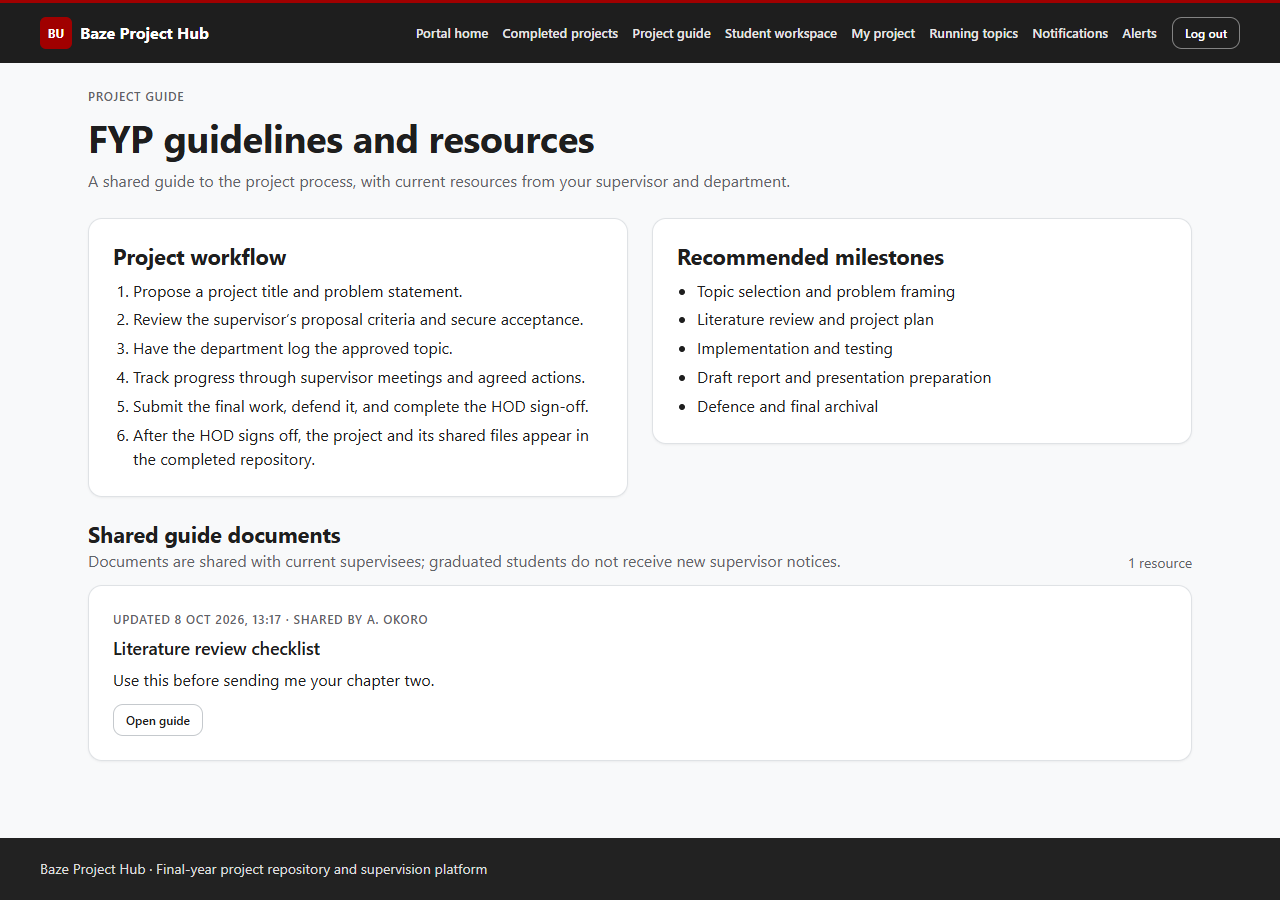
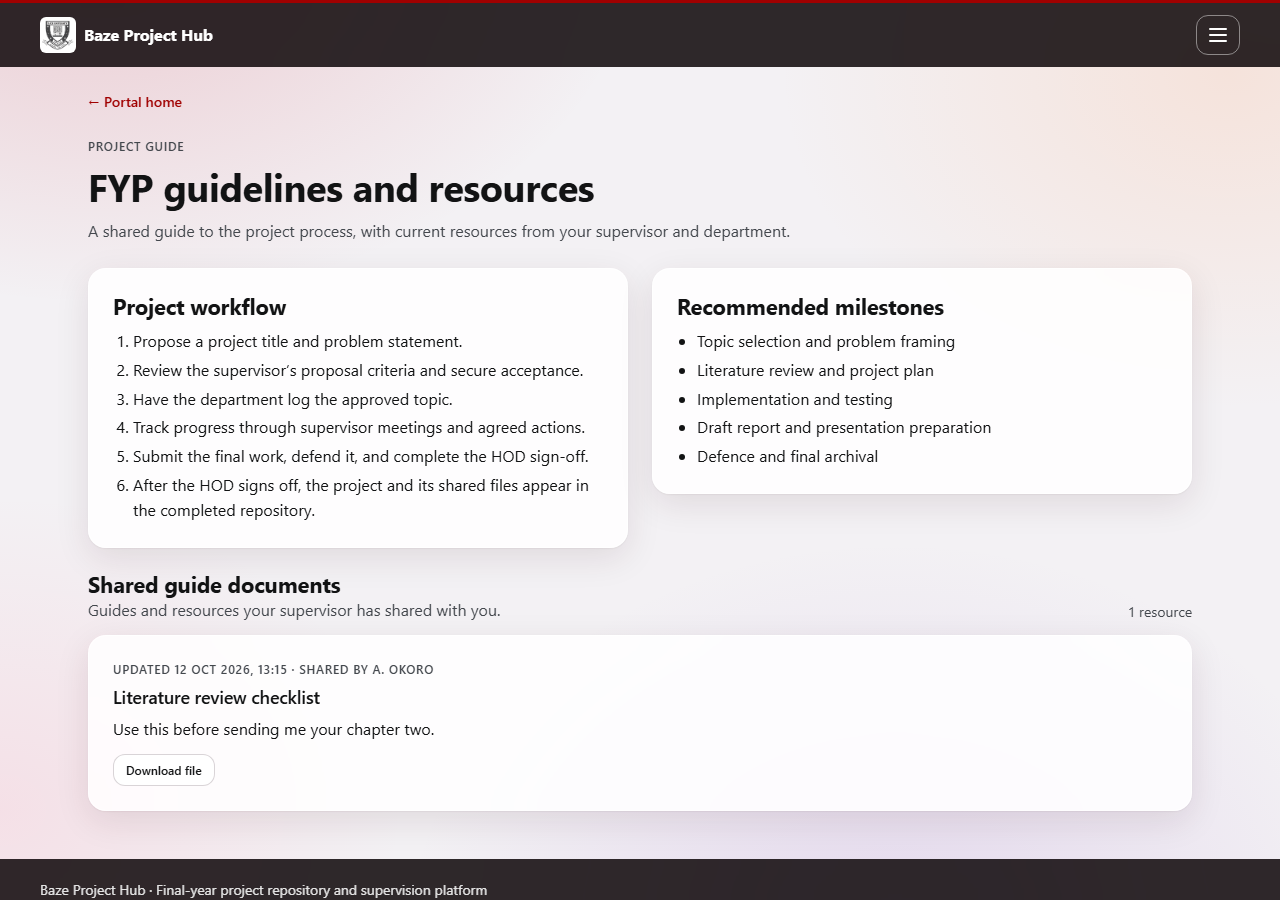
Docs: today's features and decisions (D-37 to D-40), code map, demo, Q&A, fresh screenshots
- decisions.md: D-37 coordinator upload and the staff file list, D-38 semesters entered by
  hand, D-39 public welcome page and "Log in" wording, D-40 a verified graduation needs a year.
- PROGRESS.md: welcome page, crest and login look, year grid and semester filter, missing
  file page, uploader on archived files, staff file list, semesters; 350 tests; limits.
- known_limits.md: 350 tests; semester limits; picture sources still to confirm.
- code_map.md: a "Welcome page, files and semesters" section (14 rows, all checked by
  tests_docs).
- demo_script.md: start at the welcome page; untimed extras for the coordinator upload,
  semesters and the year grid. defence-qa.md: Q33 to Q35.
- docs/screenshots: the four pages re-captured at 1280 and 360 px in the current look.
- static/img/README.txt: what each picture is for, and a note to confirm their sources.

diff --git a/projecthub_slice1/PROGRESS.md b/projecthub_slice1/PROGRESS.md
@@ -1,6 +1,6 @@
 # Progress
 
-**Last updated:** 2026-10-10 · **Core workflows implemented; open questions and known limits remain**
+**Last updated:** 2026-10-13 · **Core workflows implemented; open questions and known limits remain**
 
 ## Implemented
 
@@ -18,6 +18,8 @@
 - **My details** (`/account/contact/`) for every account: personal email and phone, each with its own visibility (only me, staff only, all signed-in users); shown on project pages for the student and the supervisor; current students without a personal email are reminded to add one
 - The HOD appoints the FYP coordinator and the staff allowed to assign supervisors (D-19)
 - Login and logout (logout is POST only), role-based dashboard
+- Logged-out welcome page (`/`): live totals (archived and running projects, academic staff, faculties; real rows only, sample rows only on a demo-only database), how a project moves through the hub, and a tile per faculty; visitors' header shows Home, How it works, Faculties, Past research and one highlighted **Log in**; signing out lands on the welcome page (D-39)
+- The Baze University crest is the header brand on every page (`static/img/baze-logo.png`, "BU" if the file is missing); the login form sits on the left over a background picture
 - Glass look by default (`UI_THEME=glass`), with the classic look one setting away (D-35)
 - Separate portals and role-aware navigation for current students, alumni, supervisors, coordinators, HODs and system administrators
 - `role_required` permission helper (deny by default)
@@ -28,14 +30,19 @@
 - Permission-checked project downloads with per-file Baze-user/staff visibility and extension/size validation
 - Admin-only CSV import of historic project summaries, all or nothing: every bad row is listed with its line number and nothing is saved until every row is valid; supervisors and previous supervisors must be academic staff of the project's department. Demo sample: `docs/sample_import.csv`
 - Similar-topic checker: archived projects whose topics score above `SIMILARITY_THRESHOLD` are listed (`docs/explain/similarity.md`)
+- Search filters: the Year filter opens a calendar-style year grid (years with projects clickable); a Semester filter beside it (D-38)
+- Archived files show who uploaded them; earlier supervisors are listed once each and never repeat the final supervisor
+- A file missing from disk shows a plain "not available" page (404) instead of a server error, and is logged
 
 ### Project workflow and supervision
 - The proposal shows only the fields the supervisor's method needs, can be saved as a draft, opens with what was saved, and stays editable until the supervisor decides (D-36)
 - Student project creation and a role-checked proposal-to-HOD-archive workflow, with per-supervisor approval criteria, decision snapshots and status history
 - Students upload proposal and final report files; the project cannot be submitted until a final report is present
 - The department's coordinator can also upload the final document for a project in their department (in progress, submitted or defended), from "Upload final report" on the workflow page. The file is recorded under the coordinator and audited; the HOD's sign-off still archives the project and moves its files
+- Staff who may open a running project's files see them listed on its workflow page, newest first, with type, uploader and date
 - Screenshots (up to 6) and demo videos (up to 2, upload or YouTube/Drive/Vimeo link) on running and archived projects, content-checked and permission-served; they move to the archive at sign-off (D-30)
-- HOD sign-off, archive and convocation list (printable and CSV)
+- HOD sign-off, archive and convocation list (printable and CSV); ticking "Graduation verified" needs the graduation year (D-40)
+- Semesters entered by hand (26A, 26B, 26C): the coordinator (or an admin) creates them on **Semesters**, with optional dates as notes, and picks each project's semester at allocation or on its workflow page; faculty deadlines can be tied to a semester; the archive keeps the semester; convocation list and CSVs show it; older records stay "Not set" until someone fills them in (D-38)
 - Project list CSV for coordinators (faculty), HODs (department) and administrators (all), audited (D-34)
 - Student allocation lists students who have no supervisor yet (a coordinator sees and allocates across their whole faculty, D-29); allocating creates their project record ("Topic to be agreed"). Supervisors are offered least busy first with their load; a change of supervisor needs a reason (D-27)
 - Department-scoped supervisor assignment and reassignment for individually authorised staff, with a history recording who changed it, when, and why; supervisor workload counts in the assignment workspace
@@ -62,7 +69,7 @@
 - Live counters and the lists beside them follow the viewer: a demo account counts demo and real rows, a real account real rows only
 
 ## Verification status
-- `manage.py test apps`: **335 tests pass on SQLite (`DB_ENGINE=sqlite`) and on MySQL 8.4** (2026-10-13).
+- `manage.py test apps`: **350 tests pass on SQLite (`DB_ENGINE=sqlite`) and on MySQL 8.4** (2026-10-13).
 - `apps/accounts/tests_docs.py` checks that every row of `docs/code_map.md` names a real file and name.
 - Runtime in use: Python 3.14.0, Django 5.2.18, MySQL 8.4.
 
@@ -95,6 +102,7 @@ For the demo, run `.\run_demo.ps1` from the repository root instead. It uses its
 
 ### Known limits (from `docs/known_limits.md`)
 - Multiple supervisors per project (co-supervision) is planned, not built: each project has one current supervisor, and earlier supervisors are kept in its history.
+- Semesters are not deleted in the app, and `seed_demo` assigns none: in the demo, add 26A on **Semesters** first.
 - No "corrections required" loop after a defence; stages only move forward (R-11).
 - No email verification at registration; an administrator approves each registration by hand.
 - Running project files are listed for staff on the workflow page only (with type, uploader and date); the project summary page does not list them.

diff --git a/docs/defence/defence-qa.md b/docs/defence/defence-qa.md
@@ -298,3 +298,21 @@ Guards: `apps/audit/models.py`, `apps/projects/models/project.py`, `apps/project
 **Say:** "Each student sees only what their own supervisor asks for: everyone gives a title, problem, objectives and methodology; a literature review and research gap appear only for supervisors who require them, and demonstration evidence only for supervisors who want a working project. They can save a draft as often as they like, where the supervisor can't see it, and submit when ready, which alerts the supervisor. The form always reopens with what they saved, and they can keep editing until the supervisor decides. Once it's accepted it's locked, because the accepted topic is the official record."
 
 **How it works:** `ProjectProposalForm` (`apps/projects/forms.py`) drops fields the supervisor's method doesn't need; `save_proposal_draft` and `submit_proposal` in `apps/projects/services/approval.py`; a proposal without a student date is a draft, and `record_supervisor_decision` refuses to decide on it. Tests: `apps/projects/tests_proposal.py`. Decision D-36.
+
+### 33. Can someone other than the student upload the final report?
+
+**Say:** "Yes, the department's coordinator, once the project is in progress, submitted or defended. Students sometimes bring the final copy to the office, so the coordinator can put it on the system for them. The file is recorded under the coordinator's name and the upload is in the audit log. Nothing else changes: the HOD still signs off, and that moves every file into the archive. Staff who may open the files see them listed on the workflow page, with who uploaded each one."
+
+**How it works:** `upload_project_document` and `_coordinator_can_upload` in `apps/projects/views.py`; the file list reuses `_can_open_current_project_files`, so nobody gains access. Tests: `apps/projects/tests_coordinator_upload.py`. Decision D-37.
+
+### 34. A year has three semesters with different timing. How does the system cope?
+
+**Say:** "Semesters are entered by hand, because the timing changes and some have no fixed dates. The coordinator creates 26A, 26B or 26C when needed, can note the dates, and picks each project's semester. Defence dates were already recorded per student, so a 26A defence in early January or in the semester's last month both work. Deadlines can be tied to a semester, so 26A's Chapter 3 date never lands on a 26B student. When a 26C project is signed off in January, the archive still says 26C, and searches and the convocation list can use the semester or the year."
+
+**How it works:** `Semester` in `apps/academics/models.py`; `deadlines_for` and `set_project_semester` in `apps/projects/services/semesters.py`; the Semesters page `semesters` in `apps/academics/views.py`. Tests: `apps/projects/tests_semesters.py`. Decision D-38.
+
+### 35. What can someone see without logging in?
+
+**Say:** "Only the welcome page: what the hub is, how a project moves through it, totals such as the number of archived projects, and the faculties. Those are counts; no name, title or file. Every project page, the repository and every download still need a Baze login."
+
+**How it works:** `home` and `_welcome_figures` in `apps/accounts/views.py`; real rows only, unless the database holds only sample data. Tests: `HomePageTests` in `apps/accounts/tests.py`. Decision D-39.

diff --git a/docs/decisions.md b/docs/decisions.md
@@ -45,6 +45,10 @@ Update this file whenever a decision is made or an open question is answered. Ne
 | D-34 | **Project list export (CSV)** for the coordinator (their faculty), the HOD (their department) and the administrator (all): running projects with student, ID, programme, department, supervisor, stage, milestone progress and, where the viewer may see it, the health band. Formula-safe cells; audited | User decided 2026-10-12 |
 | D-35 | **Glass look (glassmorphism)** as the default theme: frosted, semi-transparent cards and dark-glass header, heroes and footer over a soft Baze-crimson background. Chosen over neumorphism (weak contrast), cyberpunk and neo-brutalism (not suited to an academic tool). Text stays dark on light glass; solid fallbacks for no blur support and for reduced transparency. One setting, `UI_THEME=classic`, restores the original look | User asked for a new look 2026-10-12 |
 | D-36 | **A shorter proposal with drafts:** students see only the fields their supervisor's approval method needs (no name or date boxes: both are automatic). They can save a draft (title only) that the supervisor cannot see or decide on, submit it (dated, supervisor alerted), and keep editing until the supervisor decides. Also fixes a bug where the literature review, research gap and demonstration evidence were not saved | User asked 2026-10-12 |
+| D-37 | **The coordinator may upload the final document** for a project in their own department once it is in progress, submitted or defended. The file is recorded under the coordinator and audited; the HOD's sign-off is unchanged and still moves every file into the archive. Staff who may open a running project's files see them listed on its workflow page, with the uploader | User decided 2026-10-13 |
+| D-38 | **Semesters are entered by hand.** A year has three semesters (26A, 26B, 26C) with varying timing and no fixed dates, so nothing is derived from dates or student IDs. The coordinator (administrator as backup) creates each semester, optionally noting its dates, and chooses each project's semester at allocation or later. Faculty deadlines may be tied to a semester and then reach only its projects. The archive keeps the semester next to the sign-off year; search, the convocation list and the CSVs can use either. Existing records start as "Not set" | User decided 2026-10-13 |
+| D-39 | **A public welcome page.** Before logging in, visitors see what the hub is, live totals (counts only, never a name) and one tile per faculty; every project page still needs a login. Signing out returns to the welcome page. The action is called "Log in" everywhere, to pair with "Log out" | User asked 2026-10-13 |
+| D-40 | **A verified graduation needs its year.** The HOD cannot tick "Graduation verified" without the graduation year, so convocation lists and the archive never show a verified student without one | User asked 2026-10-13 |
 
 ## B. Proposed (not yet confirmed)
 

diff --git a/docs/known_limits.md b/docs/known_limits.md
@@ -2,12 +2,17 @@
 
 These are things the platform does **not** do yet. Each entry says what is missing and what exists instead. Paths are relative to `projecthub_slice1/`.
 
-Test count when this list was last checked: **335 tests pass on SQLite and on MySQL 8.4** (`manage.py test apps`, 2026-10-13).
+Test count when this list was last checked: **350 tests pass on SQLite and on MySQL 8.4** (`manage.py test apps`, 2026-10-13).
 
 ## Planned, not built
 
 | Limit | What happens today |
 |---|---|
+| Semesters cannot be deleted in the app | A semester label (26A) can be added and its code and dates corrected on **Semesters**, but not removed, because projects, deadlines and past records point at it. The Django admin can delete one; the links then become "Not set" |
+| Existing projects and past records have no semester | They show "Not set" until the coordinator chooses one (workflow page, or the past project's page). Nothing is guessed from dates or student IDs (D-38). `seed_demo` assigns none either |
+| Only the coordinator of the project's own department sets its semester on the workflow page | A coordinator allocates across their faculty (D-29) and can choose the semester while allocating, but changing it later needs the department's own coordinator or an administrator |
+| The year grid does not hold A, B and C | Semester is a separate filter beside the year: pick a year, a semester, or both |
+| Where the pictures come from is not recorded | The crest (`static/img/baze-logo.png`), the login background and the welcome picture were supplied by the author. Confirm the source and permission of the two pictures before the site is shown publicly |
 | Multiple supervisors per project (co-supervision) is planned, not built | Each project has one current supervisor. A reassignment ends the old assignment and keeps it in the project's history, and the archive lists earlier supervisors once each, apart from the final one |
 
 ## Other limits found in the review (docs/review/01-inventory-and-workflows.md)

diff --git a/docs/code_map.md b/docs/code_map.md
@@ -157,3 +157,22 @@
 | Adding, serving and removing media | `apps/projects/views.py` | `def project_media_file` |
 | The gallery shown on project pages | `templates/projects/_media_gallery.html` | `media-gallery` |
 | Moving media to the archive at sign-off | `apps/projects/services/lifecycle.py` | `project.media.update` |
+
+## Welcome page, files and semesters
+
+| To change… | Open | Look for |
+|---|---|---|
+| The welcome page's totals and faculty tiles | `apps/accounts/views.py` | `def _welcome_figures` |
+| The welcome page itself, and its picture | `templates/home.html` | `home-hero-art` |
+| The visitors' header (Home, How it works, Log in) | `templates/base.html` | `top-public` |
+| Which logo file the header uses | `apps/accounts/context_processors.py` | `def logo_url` |
+| The page shown when a stored file is missing | `apps/projects/files.py` | `def open_stored_file` |
+| When the coordinator may upload the final document | `apps/projects/views.py` | `def _coordinator_can_upload` |
+| Who sees a running project's files (and the workflow file list) | `apps/projects/views.py` | `def _can_open_current_project_files` |
+| Earlier supervisors listed once | `apps/projects/services/assignment.py` | `def previous_supervisors_for` |
+| The year grid on search | `static/js/year-picker.js` | `select[data-year-picker]` |
+| What a semester code may look like (26A) | `apps/academics/models.py` | `class Semester` |
+| The Semesters page | `apps/academics/views.py` | `def semesters` |
+| Who may choose a project's semester | `apps/projects/views.py` | `def _can_set_semester` |
+| Which faculty deadlines reach a project | `apps/projects/services/semesters.py` | `def deadlines_for` |
+| Moving a project to another semester | `apps/projects/services/semesters.py` | `def set_project_semester` |

diff --git a/docs/demo_script.md b/docs/demo_script.md
@@ -18,7 +18,7 @@ From `projecthub_slice1/`, in PowerShell:
 ```
 
 1. Nothing to prepare for step 7: `panel.admin` adds the test student live.
-2. Open `http://127.0.0.1:8000/` in a normal window.
+2. Open `http://127.0.0.1:8000/` in a normal window. It shows the welcome page; each step starts with **Log in** in the top bar, and **Log out** returns to the welcome page.
 
 **Why two admins:** demo accounts are never written to the audit log, by design, so that test clicks don't pollute the real history. `panel.admin` is a real account, which is how step 7 can show a genuine audit entry.
 
@@ -147,6 +147,12 @@ From `projecthub_slice1/`, in PowerShell:
 - If `panel.admin` doesn't exist, use `demo.admin`. Adding the student works, but explain that it won't appear in the audit log because demo accounts are excluded.
 
 ---
+
+## If the panel asks for more (not timed)
+
+- **The coordinator uploads the final report:** as `demo.coordinator`, open a Computer Science project that is in progress, submitted or defended, then **Project workflow → Upload final report**. The file is listed under **Project files** with the coordinator's name, and the HOD's sign-off still archives it.
+- **Semesters (26A, 26B, 26C):** as `demo.coordinator`, open **Semesters** in the menu and add `26A` (the seed has none). On a project's workflow page choose **26A** and **Save semester**. Then **Deadlines → Add a deadline** for 26A only: it appears on 26A projects and nowhere else. The repository and running topics filter by semester.
+- **Searching by year:** in the repository, click **Year**: a year grid opens, with years that have projects clickable.
 
 ## Timing
 

diff --git a/docs/README.md b/docs/README.md
@@ -42,7 +42,7 @@ New here? Read [`overview.md`](overview.md) first, then [`code_map.md`](code_map
 | File | Contents |
 |---|---|
 | [`diagrams/README.md`](diagrams/README.md) | Mermaid sources (ER, project states, HOD sign-off, architecture, use cases) and how each was checked |
-| [`screenshots/`](screenshots/) | Admin portal, project guide, repository and workflow pages at 1280 px and 360 px |
+| [`screenshots/`](screenshots/) | Admin portal, project guide, repository and workflow pages at 1280 px and 360 px (current look, 2026-10-13) |
 
 ## Demo, defence and reviews
 
